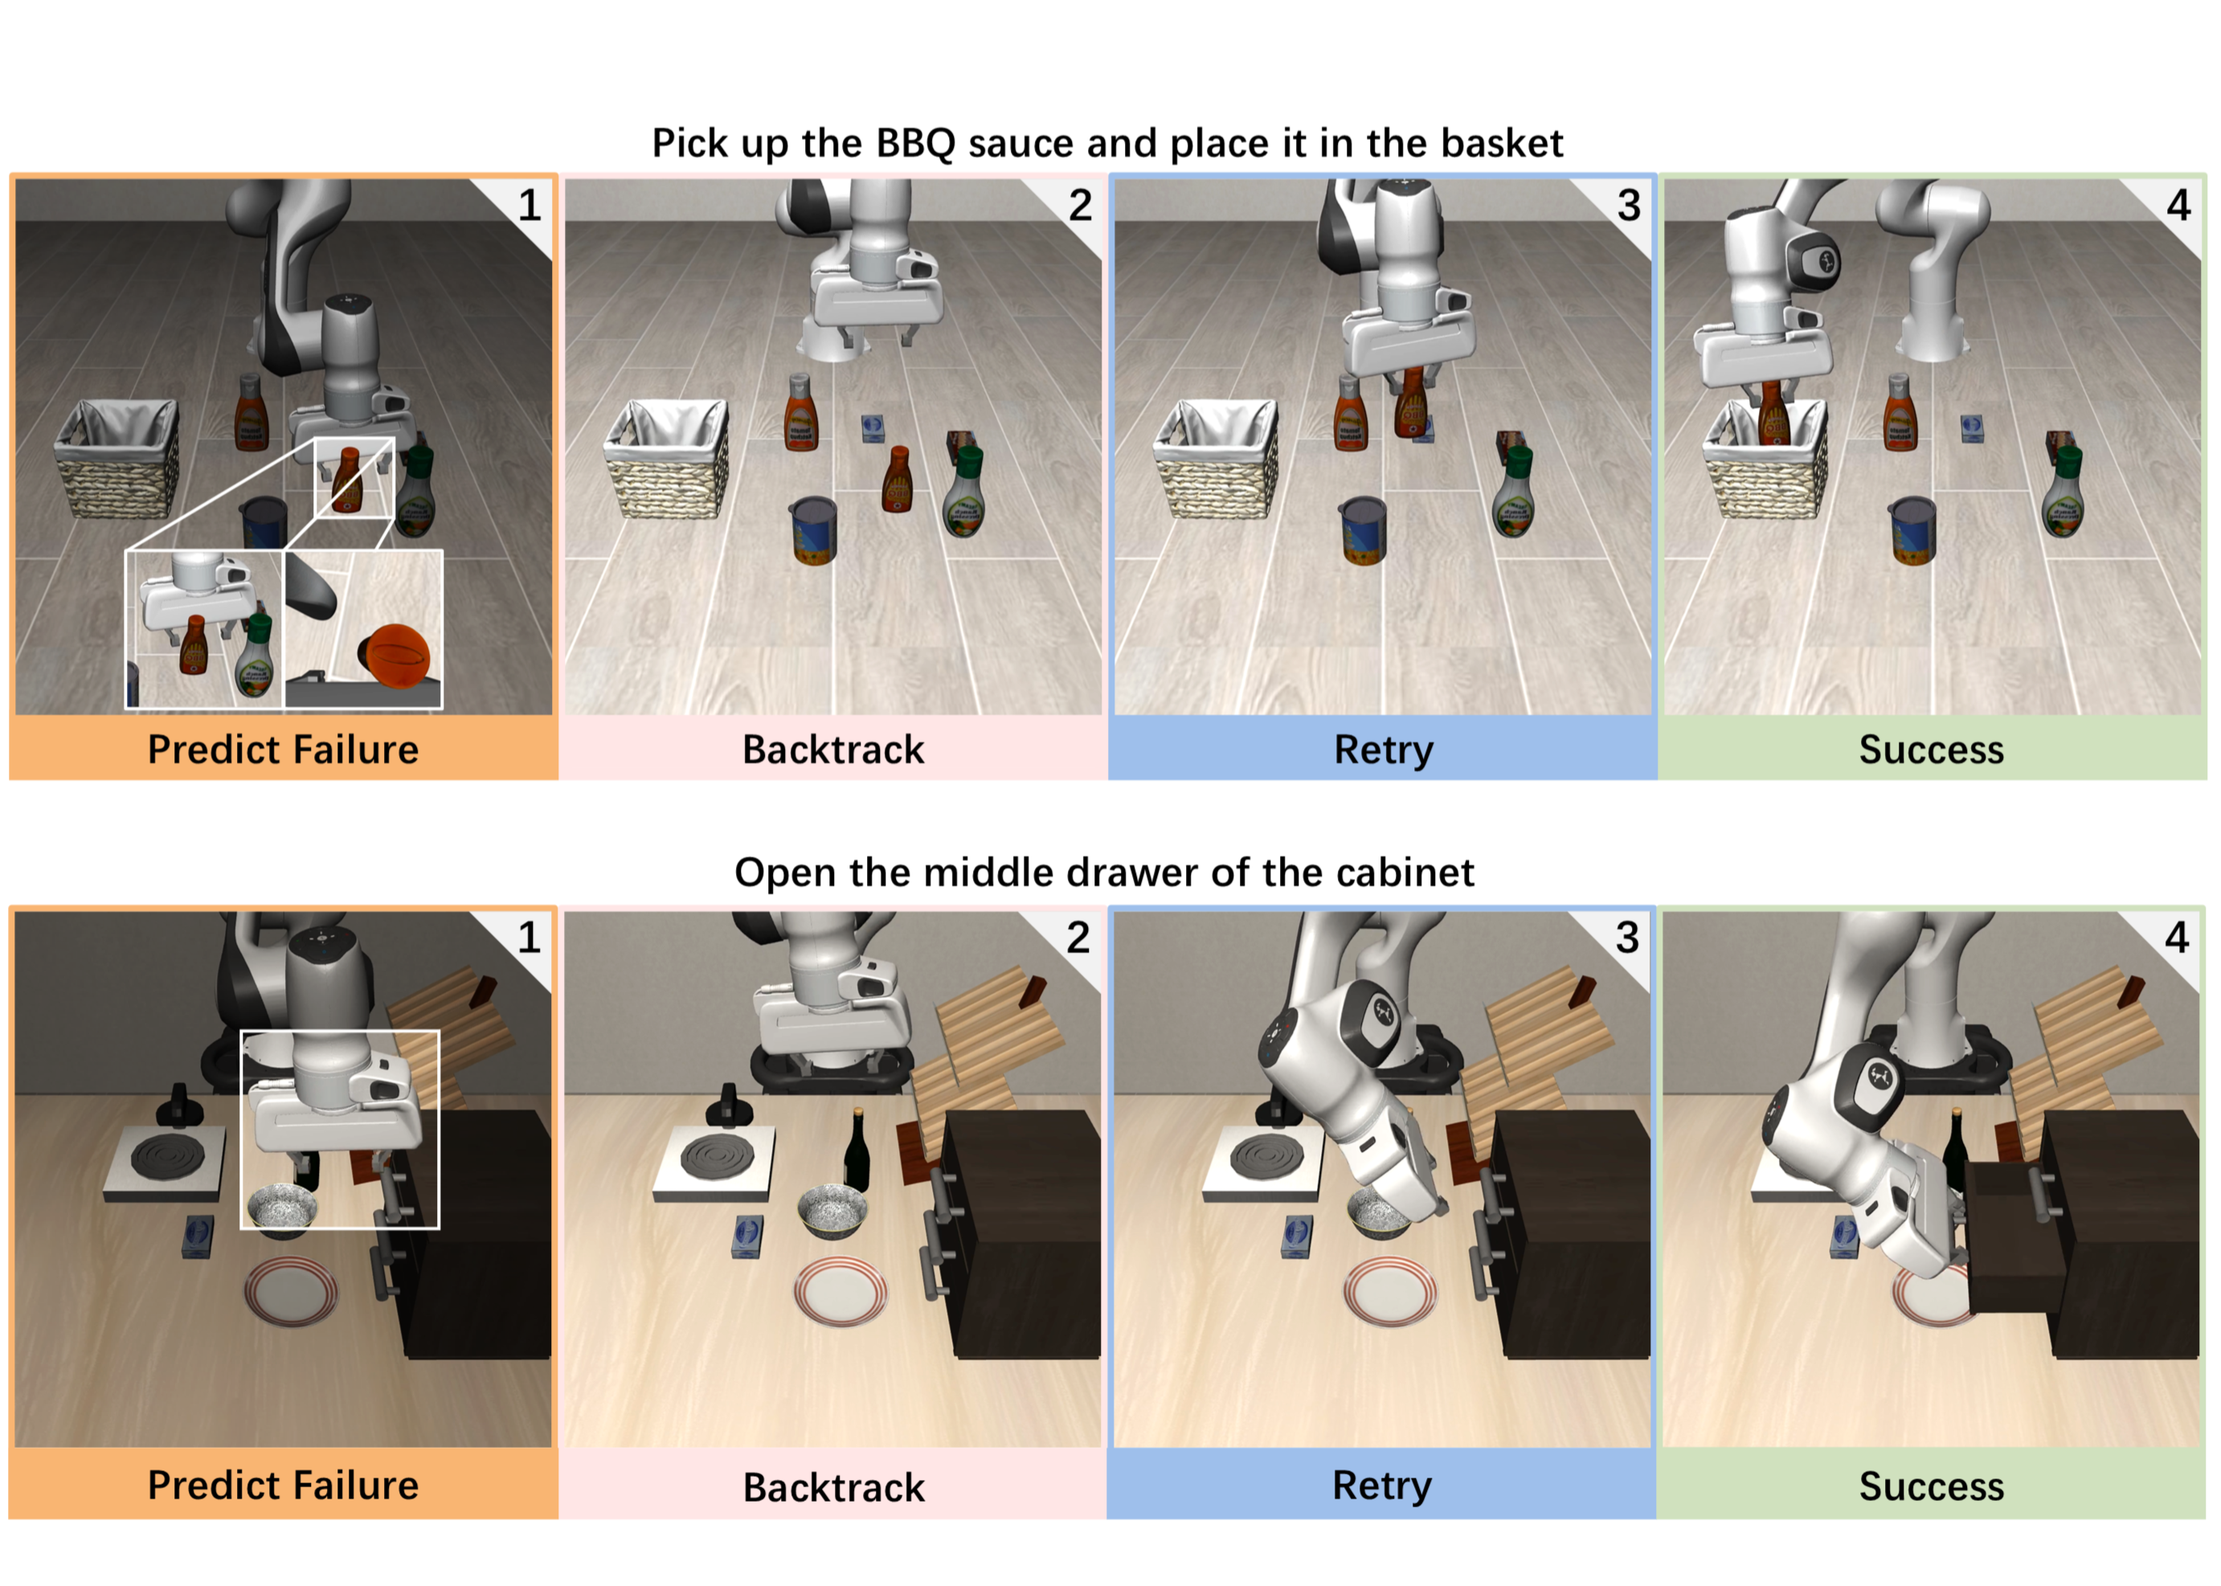
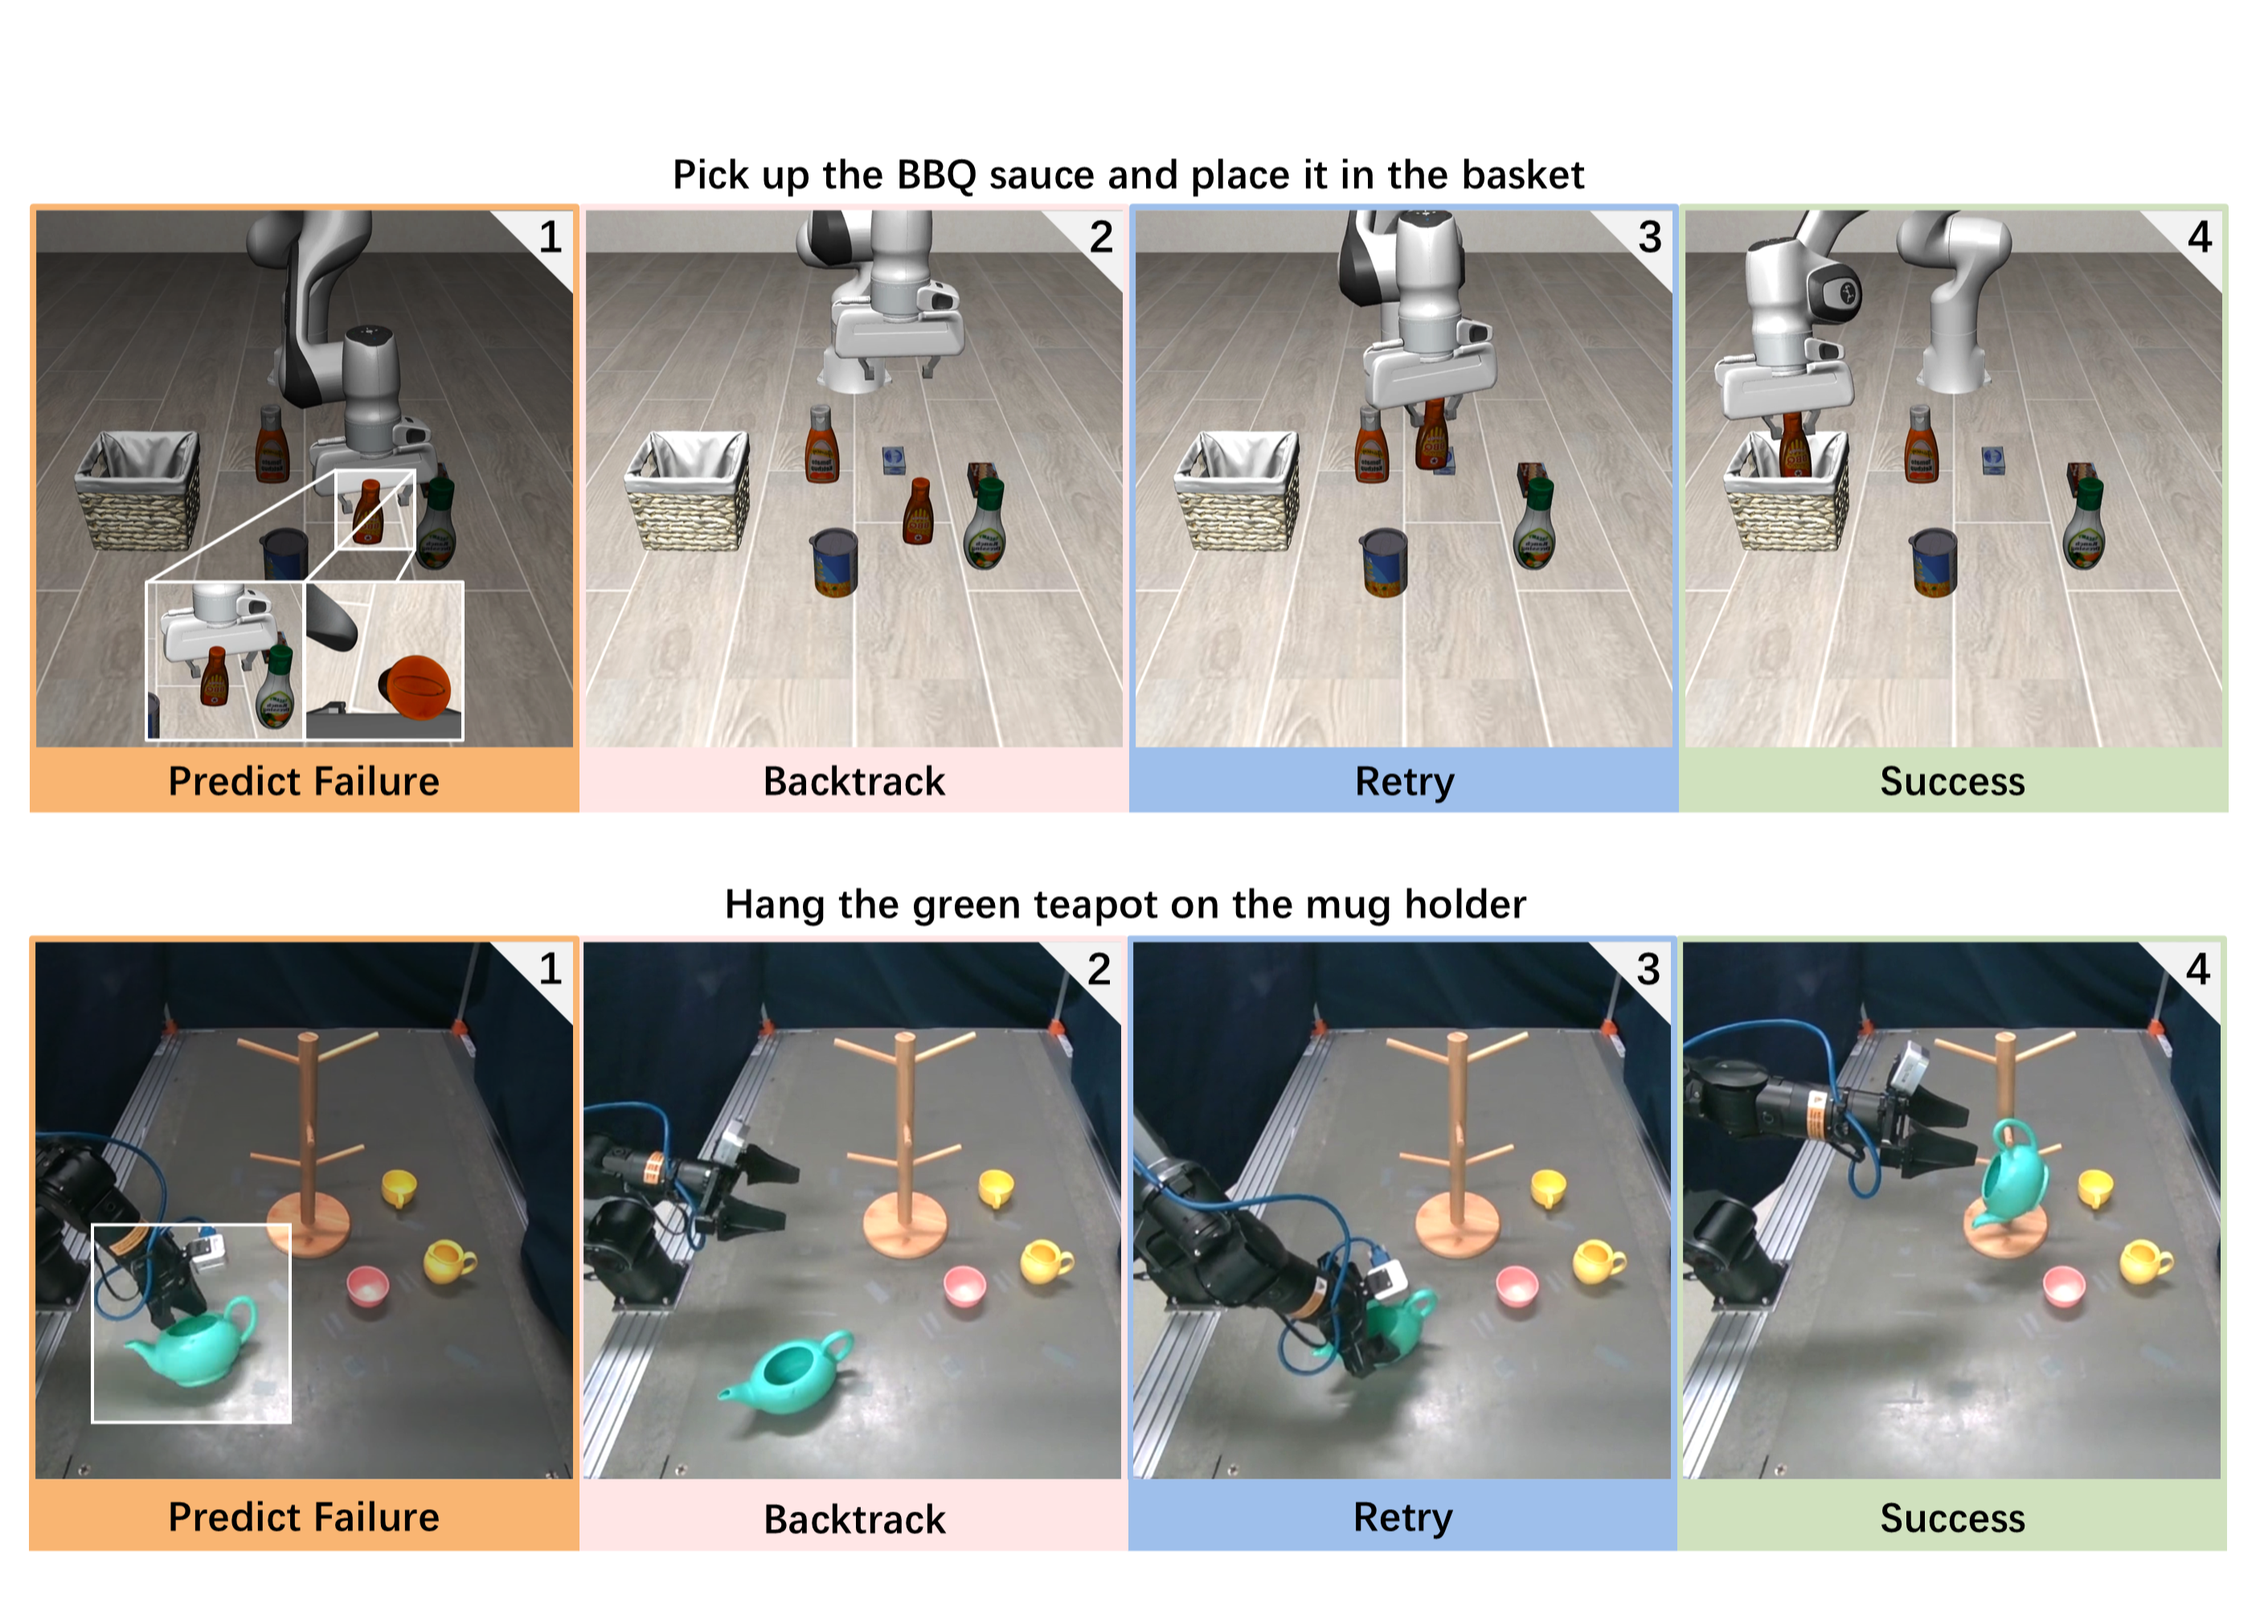
Update.

diff --git a/_includes/publications.md b/_includes/publications.md
@@ -36,7 +36,7 @@
 
   <div class="col-sm-9" style="position: relative;padding-right: 15px;padding-left: 20px;">
     <div class="title">CycleVLA: Proactive Self-Correcting Vision-Language-Action Models via Subtask Backtracking and Minimum Bayes Risk Decoding</div>
-    <div class="author"><strong>Chenyang Ma</strong>, Guangyu Yang, Kai Lu, Shitong Xu, Bill Byrne, Niki Trigoni, Andrew Markham</div>
+    <div class="author"><strong>Chenyang Ma</strong>, Kai Lu, Guangyu Yang, Jiuming Liu, Shitong Xu, Bill Byrne, Ioannis Havoutis, Niki Trigoni, Andrew Markham</div>
     <div class="periodical"><em><strong>ArXiv</strong>, 2026</em></div>
     <div class="links">
       <a href="https://dannymcy.github.io/cyclevla/" class="btn btn-sm z-depth-0" role="button" target="_blank" style="font-size:12px;">Project Page</a>
